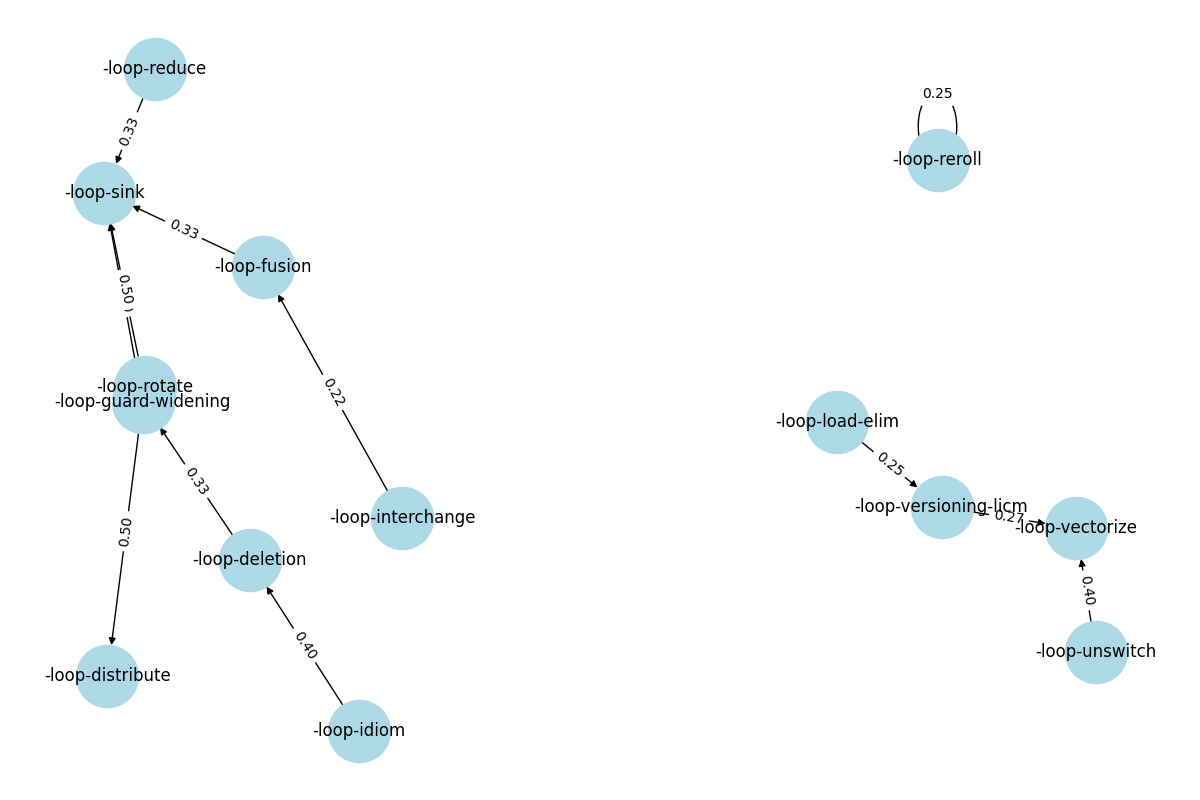
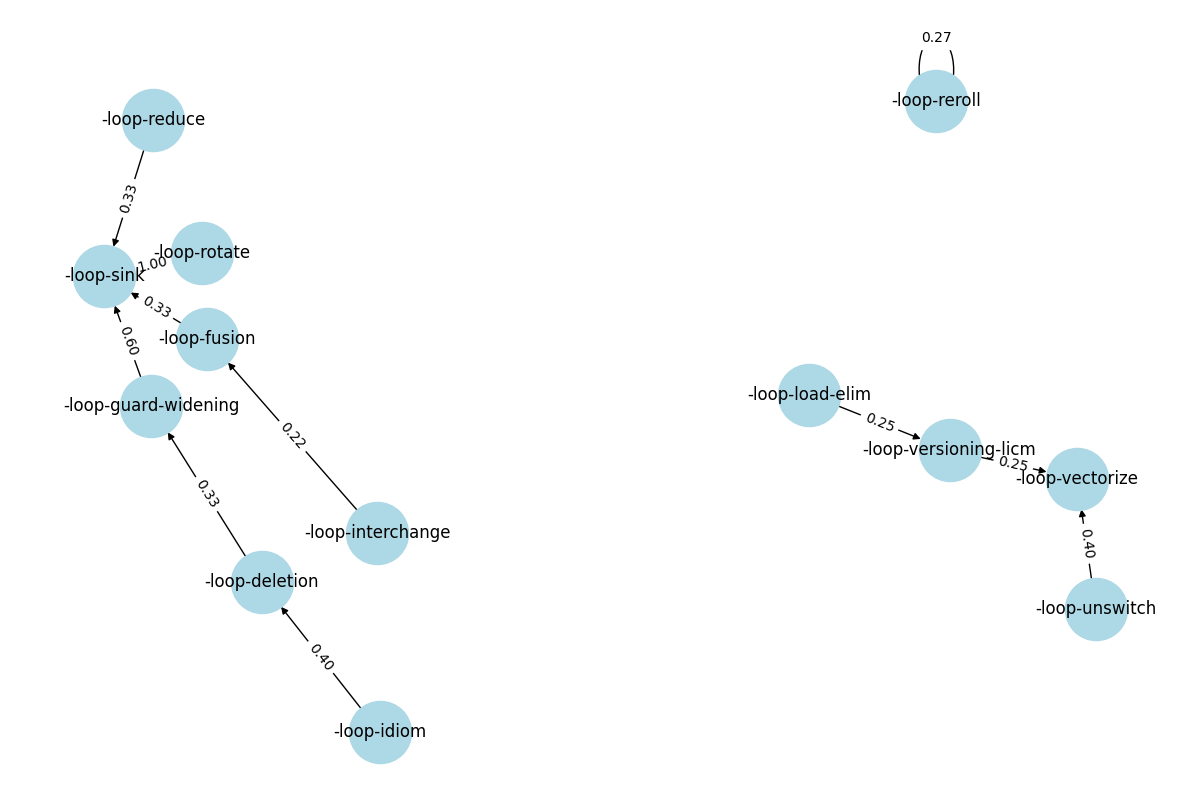
working on rahuls branch:

diff --git a/test_model.py b/test_model.py
@@ -98,8 +98,8 @@ def test_model_loop(env, checkpoint_name="basic_model.pth", fig_sub_dir="basic_f
                 #print("SAMPLD ACTION:", env.action_space.to_string(action))
 
                 # #action = env.action_space.sample()
-                # print("ACTION:", action)
-                # print("name:", env.action_space.to_string(action))
+                print("ACTION:", action)
+                print("name:", env.action_space.to_string(action))
 
                 observation, reward, done, info = env.step(action)
 
@@ -285,10 +285,14 @@ def data_vis(
 def main():
     env = compiler_gym.make(
         "llvm-v0",
-        benchmark="anghabench-v1/", # TODO: find a good benchmark
+        benchmark="cbench-v1/sha", 
         observation_space="Autophase", # TODO: consider using a different observation space that maybe isn't as broad?
         reward_space="IrInstructionCountOz"
     )
+
+    # dataset = env.datasets["anghabench-v1"]
+    # for benchmark in dataset.benchmark_uris():
+    #     print(benchmark)
 
     #runnable_benchmarks = ['benchmark://cbench-v1/bitcount', 'benchmark://cbench-v1/crc32', 'benchmark://cbench-v1/dijkstra', 'benchmark://cbench-v1/gsm', 'benchmark://cbench-v1/jpeg-c', 'benchmark://cbench-v1/jpeg-d', 'benchmark://cbench-v1/patricia', 'benchmark://cbench-v1/qsort', 'benchmark://cbench-v1/sha', 'benchmark://cbench-v1/stringsearch', 'benchmark://cbench-v1/stringsearch2', 'benchmark://cbench-v1/susan', 'benchmark://cbench-v1/tiff2bw', 'benchmark://cbench-v1/tiff2rgba', 'benchmark://cbench-v1/tiffdither', 'benchmark://cbench-v1/tiffmedian']
     #'benchmark://cbench-v1/bzip2', 'benchmark://cbench-v1/blowfish', 

diff --git a/train_model.py b/train_model.py
@@ -94,8 +94,7 @@ def main():
     env = compiler_gym.make(
         "llvm-v0",
         observation_space="Autophase",
-        reward_space="IrInstructionCountOz",
-        benchmark='anghabench-v1'
+        reward_space="IrInstructionCountOz"
     )
     # runnable_benchmarks = ['benchmark://cbench-v1/bitcount', 'benchmark://cbench-v1/blowfish', 'benchmark://cbench-v1/bzip2', 'benchmark://cbench-v1/crc32', 'benchmark://cbench-v1/dijkstra', 'benchmark://cbench-v1/gsm', 'benchmark://cbench-v1/jpeg-c', 'benchmark://cbench-v1/jpeg-d', 'benchmark://cbench-v1/patricia', 'benchmark://cbench-v1/qsort', 'benchmark://cbench-v1/sha', 'benchmark://cbench-v1/stringsearch', 'benchmark://cbench-v1/stringsearch2', 'benchmark://cbench-v1/susan', 'benchmark://cbench-v1/tiff2bw', 'benchmark://cbench-v1/tiff2rgba', 'benchmark://cbench-v1/tiffdither', 'benchmark://cbench-v1/tiffmedian']
     # runnable_benchmarks = []
